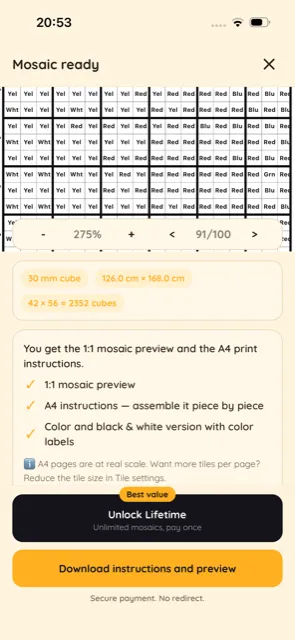
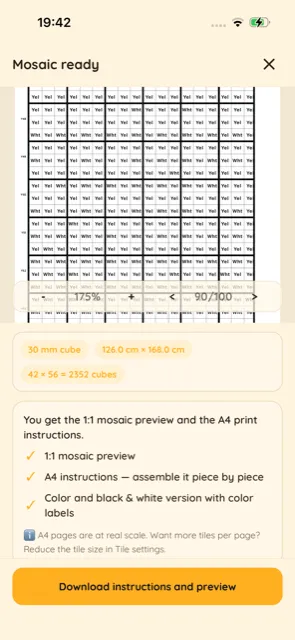
Refresh checkout screenshots and fix outdated in-app purchase copy
Replace the mosaic-ready, color-print, and B&W-print screenshots with
current ones now that the app removed its IAP paywall (RubiPic is now
paid upfront). Update Privacy Policy and Terms of Use in PL/EN to
reflect the paid-upfront model instead of the removed "lifetime
unlock" in-app purchase.

diff --git a/assets/js/translations.js b/assets/js/translations.js
@@ -120,10 +120,10 @@ window.RUBIPIC_I18N = {
     "footer.by": "Autor: Hubert Przychodniak",
 
     "privacy.meta.title": "Polityka prywatności — RubiPic",
-    "privacy.meta.description": "Polityka prywatności aplikacji RubiPic: jakie dane przetwarza aplikacja, jakich uprawnień używa i jak działają zakupy w aplikacji.",
+    "privacy.meta.description": "Polityka prywatności aplikacji RubiPic: jakie dane przetwarza aplikacja, jakich uprawnień używa i jak działa zakup aplikacji.",
     "privacy.back": "← Wróć na stronę główną",
     "privacy.pageTitle": "Polityka prywatności RubiPic",
-    "privacy.updated": "Ostatnia aktualizacja: 8 lipca 2026",
+    "privacy.updated": "Ostatnia aktualizacja: 10 lipca 2026",
     "privacy.intro": "Niniejsza Polityka prywatności wyjaśnia, w jaki sposób aplikacja RubiPic („Aplikacja”) postępuje z informacjami podczas korzystania z Aplikacji.",
     "privacy.provider": "<strong>Dostawcą Aplikacji jest:</strong><br>Hubert Przychodniak<br>Sarbka 48<br>64-705 Czarnków, Polska<br>E-mail: <a href=\"mailto:[email redacted]\">[email redacted]</a>",
 
@@ -133,7 +133,7 @@ window.RUBIPIC_I18N = {
 
     "privacy.s2.title": "2. Informacje przetwarzane przez Aplikację",
     "privacy.s2.p1": "Aplikacja może przetwarzać następujące informacje lokalnie na Twoim urządzeniu:",
-    "privacy.s2.list": "<li>obrazy wybrane przez Ciebie z biblioteki zdjęć, aparatu lub plików;</li><li>wygenerowane podglądy mozaiki oraz wygenerowane pliki PDF;</li><li>ustawienia aplikacji, takie jak język, jednostki, rozmiar i kolory kostek, rozmiar mozaiki oraz podobne preferencje;</li><li>informacje o statusie zakupu potrzebne do odblokowania funkcji „lifetime unlock” oraz do przywracania zakupów.</li>",
+    "privacy.s2.list": "<li>obrazy wybrane przez Ciebie z biblioteki zdjęć, aparatu lub plików;</li><li>wygenerowane podglądy mozaiki oraz wygenerowane pliki PDF;</li><li>ustawienia aplikacji, takie jak język, jednostki, rozmiar i kolory kostek, rozmiar mozaiki oraz podobne preferencje.</li>",
     "privacy.s2.p2": "Obrazy i wygenerowane pliki są przetwarzane lokalnie na Twoim urządzeniu. Nie są przesyłane na nasze serwery ani do jakiejkolwiek strony trzeciej.",
 
     "privacy.s3.title": "3. Uprawnienia dotyczące aparatu, zdjęć i plików",
@@ -141,10 +141,10 @@ window.RUBIPIC_I18N = {
     "privacy.s3.list": "<li><strong>Aparatu (kamery)</strong> — aby umożliwić zrobienie zdjęcia i użycie go do stworzenia mozaiki;</li><li><strong>Galerii zdjęć (odczyt)</strong> — aby umożliwić wybranie istniejącego zdjęcia do przetworzenia;</li><li><strong>Galerii zdjęć (zapis)</strong> — aby umożliwić zapisanie wygenerowanej mozaiki na Twoim urządzeniu, na Twoje wyraźne życzenie;</li><li><strong>Plików</strong> — aby umożliwić zaimportowanie pliku z obrazem.</li>",
     "privacy.s3.p2": "Uprawnienia te służą wyłącznie zapewnieniu podstawowych funkcji Aplikacji. Możesz nimi zarządzać w ustawieniach swojego urządzenia w każdej chwili.",
 
-    "privacy.s4.title": "4. Zakupy w aplikacji",
-    "privacy.s4.p1": "Aplikacja oferuje jednorazowy zakup w aplikacji (tzw. „lifetime unlock”), obsługiwany w całości przez system płatności Apple App Store i/lub Google Play, w zależności od platformy, z której korzystasz.",
+    "privacy.s4.title": "4. Zakup Aplikacji",
+    "privacy.s4.p1": "Aplikacja jest płatna z góry — kupujesz ją jednorazowo w App Store i/lub Google Play, w zależności od platformy, z której korzystasz. Pełna funkcjonalność jest dostępna od razu po zakupie — Aplikacja nie zawiera żadnych zakupów w aplikacji, subskrypcji ani odblokowywanych funkcji.",
     "privacy.s4.p2": "Nie mamy dostępu do danych Twojej karty płatniczej ani pełnych danych rozliczeniowych — są one przetwarzane wyłącznie przez Apple Inc. i/lub Google LLC, zgodnie z ich własnymi politykami prywatności: <a href=\"https://www.apple.com/legal/privacy/\" target=\"_blank\" rel=\"noopener\">Apple</a>, <a href=\"https://policies.google.com/privacy\" target=\"_blank\" rel=\"noopener\">Google</a>.",
-    "privacy.s4.p3": "Aplikacja komunikuje się z App Store / Google Play wyłącznie w celu zweryfikowania statusu zakupu i umożliwienia jego przywrócenia (funkcja „Przywróć zakupy”).",
+    "privacy.s4.p3": "Ponieważ Aplikacja nie zawiera zakupów w aplikacji, nie komunikuje się z App Store / Google Play w celu weryfikowania statusu zakupu ani przywracania zakupów — dostęp do Aplikacji zależy wyłącznie od konta Apple / Google, na które została kupiona, i jest obsługiwany automatycznie przez sklep.",
 
     "privacy.s5.title": "5. Udostępnianie i drukowanie",
     "privacy.s5.p1": "Aplikacja może umożliwić wydrukowanie lub udostępnienie wygenerowanego pliku PDF za pomocą funkcji systemowych dostępnych na Twoim urządzeniu. Udostępnianie następuje tylko wtedy, gdy sam zdecydujesz się skorzystać z opcji udostępniania lub drukowania.",
@@ -167,7 +167,7 @@ window.RUBIPIC_I18N = {
 
     "privacy.s10.title": "10. Udostępnianie danych",
     "privacy.s10.p1": "Nie sprzedajemy Twoich danych osobowych. Nie udostępniamy Twoich obrazów osobom trzecim z naszych serwerów, ponieważ nie przesyłamy ich na żadne serwery.",
-    "privacy.s10.p2": "Informacje mogą być przetwarzane przez Apple i/lub Google, gdy pobierasz Aplikację, dokonujesz zakupu w aplikacji, przywracasz zakupy lub korzystasz z usług App Store / Google Play. Apple i Google przetwarzają takie informacje zgodnie z własnymi politykami prywatności.",
+    "privacy.s10.p2": "Informacje mogą być przetwarzane przez Apple i/lub Google, gdy pobierasz i kupujesz Aplikację lub korzystasz z usług App Store / Google Play. Apple i Google przetwarzają takie informacje zgodnie z własnymi politykami prywatności.",
 
     "privacy.s11.title": "11. Przekazywanie danych za granicę",
     "privacy.s11.p1": "Nie przekazujemy Twoich obrazów ani wygenerowanych mozaik na nasze serwery. Apple i/lub Google mogą przetwarzać informacje związane z App Store / Google Play i zakupami w krajach poza krajem Twojego zamieszkania, zgodnie z własnymi warunkami prywatności i prawnymi.",
@@ -187,10 +187,10 @@ window.RUBIPIC_I18N = {
     "privacy.s15.p1": "W sprawach dotyczących niniejszej Polityki prywatności lub sposobu przetwarzania danych przez Aplikację, skontaktuj się z nami:",
 
     "terms.meta.title": "Regulamin — RubiPic",
-    "terms.meta.description": "Regulamin korzystania z aplikacji RubiPic: licencja, zakupy w aplikacji, własność intelektualna oraz minimalne warunki wymagane przez Apple.",
+    "terms.meta.description": "Regulamin korzystania z aplikacji RubiPic: licencja, zakup aplikacji, własność intelektualna oraz minimalne warunki wymagane przez Apple.",
     "terms.back": "← Wróć na stronę główną",
     "terms.pageTitle": "Regulamin korzystania z aplikacji RubiPic",
-    "terms.updated": "Ostatnia aktualizacja: 8 lipca 2026",
+    "terms.updated": "Ostatnia aktualizacja: 10 lipca 2026",
 
     "terms.s1.title": "1. Postanowienia ogólne",
     "terms.s1.p1": "Niniejszy Regulamin określa zasady korzystania z aplikacji mobilnej RubiPic („Aplikacja”), udostępnianej przez Huberta Przychodniaka („Deweloper”, „my”), za pośrednictwem Apple App Store oraz Google Play. Pobranie lub korzystanie z Aplikacji oznacza akceptację niniejszego Regulaminu.",
@@ -202,10 +202,10 @@ window.RUBIPIC_I18N = {
     "terms.s3.title": "3. Licencja",
     "terms.s3.p1": "Udzielamy Ci niewyłącznej, nieprzenoszalnej licencji na korzystanie z Aplikacji na urządzeniach z systemem iOS/Android, które posiadasz lub kontrolujesz, wyłącznie do użytku osobistego, zgodnie z regulaminami sklepu (Apple App Store / Google Play), z którego Aplikacja została pobrana.",
 
-    "terms.s4.title": "4. Zakupy w aplikacji",
-    "terms.s4.p1": "Aplikacja oferuje jednorazowy, bezterminowy zakup odblokowujący pełną funkcjonalność („lifetime unlock”). Zakup jest realizowany i rozliczany wyłącznie przez Apple App Store lub Google Play, zgodnie z ich regulaminami płatności.",
+    "terms.s4.title": "4. Zakup Aplikacji",
+    "terms.s4.p1": "Aplikacja jest płatna z góry: płacisz raz, w momencie pobrania, przez Apple App Store lub Google Play, zgodnie z ich regulaminami płatności. Nie ma żadnych dodatkowych zakupów w aplikacji, subskrypcji ani odblokowywanych funkcji — cała funkcjonalność jest dostępna od razu po instalacji.",
     "terms.s4.p2": "Zwroty należy zgłaszać bezpośrednio do Apple lub Google, zgodnie z ich procedurami — Deweloper nie przetwarza płatności samodzielnie.",
-    "terms.s4.p3": "Zakup można przywrócić na innym urządzeniu powiązanym z tym samym kontem Apple/Google poprzez funkcję „Przywróć zakupy”.",
+    "terms.s4.p3": "Ponieważ to sama Aplikacja jest produktem płatnym (a nie zakupem wewnątrz aplikacji), możesz ją ponownie zainstalować na innym urządzeniu powiązanym z tym samym kontem Apple/Google bez dodatkowych kosztów, bez potrzeby korzystania z funkcji przywracania zakupów.",
 
     "terms.s5.title": "5. Własność intelektualna",
     "terms.s5.p1": "Zdjęcia wgrywane przez Ciebie pozostają Twoją wyłączną własnością — Deweloper nie rości sobie do nich żadnych praw i nie ma do nich dostępu.",
@@ -379,10 +379,10 @@ window.RUBIPIC_I18N = {
     "footer.by": "By Hubert Przychodniak",
 
     "privacy.meta.title": "Privacy Policy — RubiPic",
-    "privacy.meta.description": "RubiPic's Privacy Policy: what data the app processes, which permissions it uses, and how in-app purchases work.",
+    "privacy.meta.description": "RubiPic's Privacy Policy: what data the app processes, which permissions it uses, and how the app purchase works.",
     "privacy.back": "← Back to home",
     "privacy.pageTitle": "RubiPic Privacy Policy",
-    "privacy.updated": "Last updated: July 8, 2026",
+    "privacy.updated": "Last updated: July 10, 2026",
     "privacy.intro": "This Privacy Policy explains how RubiPic (\"the App\") handles information when you use the App.",
     "privacy.provider": "<strong>The App is provided by:</strong><br>Hubert Przychodniak<br>Sarbka 48<br>64-705 Czarnków, Poland<br>Email: <a href=\"mailto:[email redacted]\">[email redacted]</a>",
 
@@ -392,7 +392,7 @@ window.RUBIPIC_I18N = {
 
     "privacy.s2.title": "2. Information Processed by the App",
     "privacy.s2.p1": "The App may process the following information locally on your device:",
-    "privacy.s2.list": "<li>images selected by you from your photo library, camera, or files;</li><li>generated mosaic previews and generated PDF files;</li><li>app settings such as language, units, cube size and colors, mosaic size, and similar preferences;</li><li>information about in-app purchase status needed to unlock the \"lifetime unlock\" feature and to restore purchases.</li>",
+    "privacy.s2.list": "<li>images selected by you from your photo library, camera, or files;</li><li>generated mosaic previews and generated PDF files;</li><li>app settings such as language, units, cube size and colors, mosaic size, and similar preferences.</li>",
     "privacy.s2.p2": "Images and generated files are processed locally on your device. They are not uploaded to our servers or to any third party.",
 
     "privacy.s3.title": "3. Camera, Photos and Files Permissions",
@@ -400,10 +400,10 @@ window.RUBIPIC_I18N = {
     "privacy.s3.list": "<li><strong>Camera</strong> — to let you take a photo and use it to create a mosaic;</li><li><strong>Photo library (read)</strong> — to let you select an existing photo to process;</li><li><strong>Photo library (write)</strong> — to let you save the generated mosaic to your device, at your explicit request;</li><li><strong>Files</strong> — to let you import an image file.</li>",
     "privacy.s3.p2": "These permissions are used only to provide the App's core functionality. You can manage them in your device settings at any time.",
 
-    "privacy.s4.title": "4. In-App Purchases",
-    "privacy.s4.p1": "The App offers a one-time in-app purchase (a \"lifetime unlock\"), handled entirely by the Apple App Store and/or Google Play payment system, depending on the platform you use.",
+    "privacy.s4.title": "4. App Purchase",
+    "privacy.s4.p1": "The App is paid upfront — you buy it once through the App Store and/or Google Play, depending on the platform you use. Full functionality is available immediately after purchase — the App does not contain any in-app purchases, subscriptions, or unlockable features.",
     "privacy.s4.p2": "We do not have access to your payment card details or full billing information — these are processed solely by Apple Inc. and/or Google LLC, according to their own privacy policies: <a href=\"https://www.apple.com/legal/privacy/\" target=\"_blank\" rel=\"noopener\">Apple</a>, <a href=\"https://policies.google.com/privacy\" target=\"_blank\" rel=\"noopener\">Google</a>.",
-    "privacy.s4.p3": "The App communicates with the App Store / Google Play only to verify purchase status and to allow it to be restored (the \"Restore purchases\" feature).",
+    "privacy.s4.p3": "Because the App does not contain any in-app purchases, it does not need to communicate with the App Store / Google Play to verify purchase status or restore purchases — access to the App depends solely on the Apple / Google account it was purchased with, and is handled automatically by the store.",
 
     "privacy.s5.title": "5. Sharing and Printing",
     "privacy.s5.p1": "The App may let you print or share a generated PDF using system features available on your device. Sharing only happens when you choose to use the share or print option.",
@@ -426,7 +426,7 @@ window.RUBIPIC_I18N = {
 
     "privacy.s10.title": "10. Data Sharing",
     "privacy.s10.p1": "We do not sell your personal data. We do not share your images with third parties from our own servers, because we do not upload them to any servers.",
-    "privacy.s10.p2": "Information may be processed by Apple and/or Google when you download the App, make an in-app purchase, restore purchases, or use App Store / Google Play services. Apple and Google process such information according to their own privacy policies.",
+    "privacy.s10.p2": "Information may be processed by Apple and/or Google when you download and purchase the App, or use App Store / Google Play services. Apple and Google process such information according to their own privacy policies.",
 
     "privacy.s11.title": "11. International Transfers",
     "privacy.s11.p1": "We do not transfer your images or generated mosaics to our own servers. Apple and/or Google may process App Store / Google Play and purchase-related information in countries outside your country of residence, according to their own privacy and legal terms.",
@@ -446,10 +446,10 @@ window.RUBIPIC_I18N = {
     "privacy.s15.p1": "For any questions about this Privacy Policy or how the App handles data, please contact us:",
 
     "terms.meta.title": "Terms of Use — RubiPic",
-    "terms.meta.description": "Terms of Use for the RubiPic app: license, in-app purchases, intellectual property, and Apple's minimum required license terms.",
+    "terms.meta.description": "Terms of Use for the RubiPic app: license, the app purchase, intellectual property, and Apple's minimum required license terms.",
     "terms.back": "← Back to home",
     "terms.pageTitle": "RubiPic Terms of Use",
-    "terms.updated": "Last updated: July 8, 2026",
+    "terms.updated": "Last updated: July 10, 2026",
 
     "terms.s1.title": "1. General Provisions",
     "terms.s1.p1": "These Terms of Use (\"Terms\") set out the rules for using the RubiPic mobile app (\"the App\"), made available by Hubert Przychodniak (\"the Developer\", \"we\") through the Apple App Store and Google Play. Downloading or using the App means you accept these Terms.",
@@ -461,10 +461,10 @@ window.RUBIPIC_I18N = {
     "terms.s3.title": "3. License",
     "terms.s3.p1": "We grant you a non-exclusive, non-transferable license to use the App on iOS/Android devices that you own or control, for personal use only, in accordance with the terms of the store (Apple App Store / Google Play) from which the App was downloaded.",
 
-    "terms.s4.title": "4. In-App Purchases",
-    "terms.s4.p1": "The App offers a one-time, permanent purchase that unlocks full functionality (a \"lifetime unlock\"). The purchase is processed and billed exclusively by the Apple App Store or Google Play, in accordance with their own payment terms.",
+    "terms.s4.title": "4. App Purchase",
+    "terms.s4.p1": "The App is paid upfront: you pay once, at the time of download, through the Apple App Store or Google Play, in accordance with their own payment terms. There are no additional in-app purchases, subscriptions, or unlockable features — full functionality is available immediately after installing the App.",
     "terms.s4.p2": "Refunds should be requested directly from Apple or Google, according to their own procedures — the Developer does not process payments directly.",
-    "terms.s4.p3": "The purchase can be restored on another device linked to the same Apple/Google account using the \"Restore purchases\" feature.",
+    "terms.s4.p3": "Because the App itself is the paid product (not an in-app purchase), you can reinstall it on another device linked to the same Apple/Google account at no extra cost, without needing an in-app restore-purchases feature.",
 
     "terms.s5.title": "5. Intellectual Property",
     "terms.s5.p1": "Photos you upload remain your exclusive property — the Developer claims no rights to them and has no access to them.",

diff --git a/privacy.html b/privacy.html
@@ -4,7 +4,7 @@
 <meta charset="utf-8">
 <meta name="viewport" content="width=device-width, initial-scale=1">
 <title>Privacy Policy — RubiPic</title>
-<meta name="description" content="RubiPic's Privacy Policy: what data the app processes, which permissions it uses, and how in-app purchases work.">
+<meta name="description" content="RubiPic's Privacy Policy: what data the app processes, which permissions it uses, and how the app purchase works.">
 <meta name="theme-color" content="#fbf0dc">
 <link rel="canonical" href="https://rubipic.app/privacy.html">
 
@@ -14,7 +14,7 @@
 
 <meta property="og:type" content="website">
 <meta property="og:title" content="Privacy Policy — RubiPic">
-<meta property="og:description" content="RubiPic's Privacy Policy: what data the app processes, which permissions it uses, and how in-app purchases work.">
+<meta property="og:description" content="RubiPic's Privacy Policy: what data the app processes, which permissions it uses, and how the app purchase works.">
 <meta property="og:image" content="assets/icons/logo-512.jpg">
 <meta property="og:url" content="https://rubipic.app/privacy.html">
 <meta name="twitter:card" content="summary_large_image">
@@ -58,7 +58,7 @@
       <a href="index.html" class="back-link" data-i18n="privacy.back">← Back to home</a>
 
       <h1 data-i18n="privacy.pageTitle">RubiPic Privacy Policy</h1>
-      <p class="updated" data-i18n="privacy.updated">Last updated: July 8, 2026</p>
+      <p class="updated" data-i18n="privacy.updated">Last updated: July 10, 2026</p>
       <p class="intro" data-i18n="privacy.intro">This Privacy Policy explains how RubiPic ("the App") handles information when you use the App.</p>
 
       <div class="policy-provider" data-i18n="privacy.provider">
@@ -78,8 +78,7 @@
           <ul data-i18n="privacy.s2.list">
             <li>images selected by you from your photo library, camera, or files;</li>
             <li>generated mosaic previews and generated PDF files;</li>
-            <li>app settings such as language, units, cube size and colors, mosaic size, and similar preferences;</li>
-            <li>information about in-app purchase status needed to unlock the "lifetime unlock" feature and to restore purchases.</li>
+            <li>app settings such as language, units, cube size and colors, mosaic size, and similar preferences.</li>
           </ul>
           <p data-i18n="privacy.s2.p2">Images and generated files are processed locally on your device. They are not uploaded to our servers or to any third party.</p>
         </section>
@@ -97,10 +96,10 @@
         </section>
 
         <section>
-          <h2 data-i18n="privacy.s4.title">4. In-App Purchases</h2>
-          <p data-i18n="privacy.s4.p1">The App offers a one-time in-app purchase (a "lifetime unlock"), handled entirely by the Apple App Store and/or Google Play payment system, depending on the platform you use.</p>
+          <h2 data-i18n="privacy.s4.title">4. App Purchase</h2>
+          <p data-i18n="privacy.s4.p1">The App is paid upfront — you buy it once through the App Store and/or Google Play, depending on the platform you use. Full functionality is available immediately after purchase — the App does not contain any in-app purchases, subscriptions, or unlockable features.</p>
           <p data-i18n="privacy.s4.p2">We do not have access to your payment card details or full billing information — these are processed solely by Apple Inc. and/or Google LLC, according to their own privacy policies: <a href="https://www.apple.com/legal/privacy/" target="_blank" rel="noopener">Apple</a>, <a href="https://policies.google.com/privacy" target="_blank" rel="noopener">Google</a>.</p>
-          <p data-i18n="privacy.s4.p3">The App communicates with the App Store / Google Play only to verify purchase status and to allow it to be restored (the "Restore purchases" feature).</p>
+          <p data-i18n="privacy.s4.p3">Because the App does not contain any in-app purchases, it does not need to communicate with the App Store / Google Play to verify purchase status or restore purchases — access to the App depends solely on the Apple / Google account it was purchased with, and is handled automatically by the store.</p>
         </section>
 
         <section>
@@ -139,7 +138,7 @@
         <section>
           <h2 data-i18n="privacy.s10.title">10. Data Sharing</h2>
           <p data-i18n="privacy.s10.p1">We do not sell your personal data. We do not share your images with third parties from our own servers, because we do not upload them to any servers.</p>
-          <p data-i18n="privacy.s10.p2">Information may be processed by Apple and/or Google when you download the App, make an in-app purchase, restore purchases, or use App Store / Google Play services. Apple and Google process such information according to their own privacy policies.</p>
+          <p data-i18n="privacy.s10.p2">Information may be processed by Apple and/or Google when you download and purchase the App, or use App Store / Google Play services. Apple and Google process such information according to their own privacy policies.</p>
         </section>
 
         <section>

diff --git a/terms.html b/terms.html
@@ -4,7 +4,7 @@
 <meta charset="utf-8">
 <meta name="viewport" content="width=device-width, initial-scale=1">
 <title>Terms of Use — RubiPic</title>
-<meta name="description" content="Terms of Use for the RubiPic app: license, in-app purchases, intellectual property, and Apple's minimum required license terms.">
+<meta name="description" content="Terms of Use for the RubiPic app: license, the app purchase, intellectual property, and Apple's minimum required license terms.">
 <meta name="theme-color" content="#fbf0dc">
 <link rel="canonical" href="https://rubipic.app/terms.html">
 
@@ -14,7 +14,7 @@
 
 <meta property="og:type" content="website">
 <meta property="og:title" content="Terms of Use — RubiPic">
-<meta property="og:description" content="Terms of Use for the RubiPic app: license, in-app purchases, intellectual property, and Apple's minimum required license terms.">
+<meta property="og:description" content="Terms of Use for the RubiPic app: license, the app purchase, intellectual property, and Apple's minimum required license terms.">
 <meta property="og:image" content="assets/icons/logo-512.jpg">
 <meta property="og:url" content="https://rubipic.app/terms.html">
 <meta name="twitter:card" content="summary_large_image">
@@ -58,7 +58,7 @@
       <a href="index.html" class="back-link" data-i18n="terms.back">← Back to home</a>
 
       <h1 data-i18n="terms.pageTitle">RubiPic Terms of Use</h1>
-      <p class="updated" data-i18n="terms.updated">Last updated: July 8, 2026</p>
+      <p class="updated" data-i18n="terms.updated">Last updated: July 10, 2026</p>
 
       <div class="policy-body">
         <section>
@@ -78,10 +78,10 @@
         </section>
 
         <section>
-          <h2 data-i18n="terms.s4.title">4. In-App Purchases</h2>
-          <p data-i18n="terms.s4.p1">The App offers a one-time, permanent purchase that unlocks full functionality (a "lifetime unlock"). The purchase is processed and billed exclusively by the Apple App Store or Google Play, in accordance with their own payment terms.</p>
+          <h2 data-i18n="terms.s4.title">4. App Purchase</h2>
+          <p data-i18n="terms.s4.p1">The App is paid upfront: you pay once, at the time of download, through the Apple App Store or Google Play, in accordance with their own payment terms. There are no additional in-app purchases, subscriptions, or unlockable features — full functionality is available immediately after installing the App.</p>
           <p data-i18n="terms.s4.p2">Refunds should be requested directly from Apple or Google, according to their own procedures — the Developer does not process payments directly.</p>
-          <p data-i18n="terms.s4.p3">The purchase can be restored on another device linked to the same Apple/Google account using the "Restore purchases" feature.</p>
+          <p data-i18n="terms.s4.p3">Because the App itself is the paid product (not an in-app purchase), you can reinstall it on another device linked to the same Apple/Google account at no extra cost, without needing an in-app restore-purchases feature.</p>
         </section>
 
         <section>

diff --git a/index.html b/index.html
@@ -168,7 +168,7 @@
           <p data-i18n="step3.text">Adjust brightness, contrast, and saturation (or hit Auto), and tweak individual colors when you need the mosaic to match the photo as closely as possible.</p>
         </div>
         <div class="step reveal">
-          <div class="shot"><img src="assets/screens/paywall-zoom.webp" width="295" height="640" loading="lazy" data-i18n-attr='{"alt":"alt.step4"}' alt="Finished mosaic screen with 1:1 preview"></div>
+          <div class="shot"><img src="assets/screens/mosaic-ready.webp" width="295" height="640" loading="lazy" data-i18n-attr='{"alt":"alt.step4"}' alt="Finished mosaic screen with 1:1 preview"></div>
           <div class="num">4</div>
           <h3 data-i18n="step4.title">Print and build</h3>
           <p data-i18n="step4.text">Generate the mosaic plan, print the instructions split across A4 pages, and place real Rubik's cubes on the grid.</p>